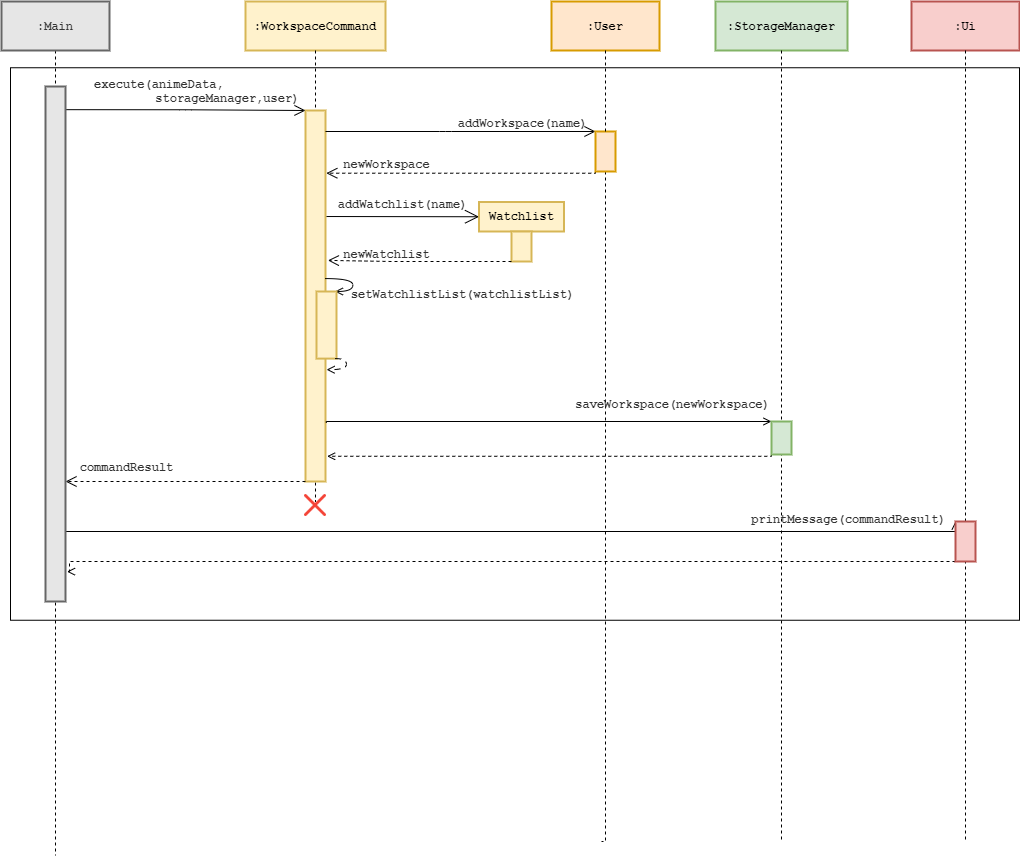
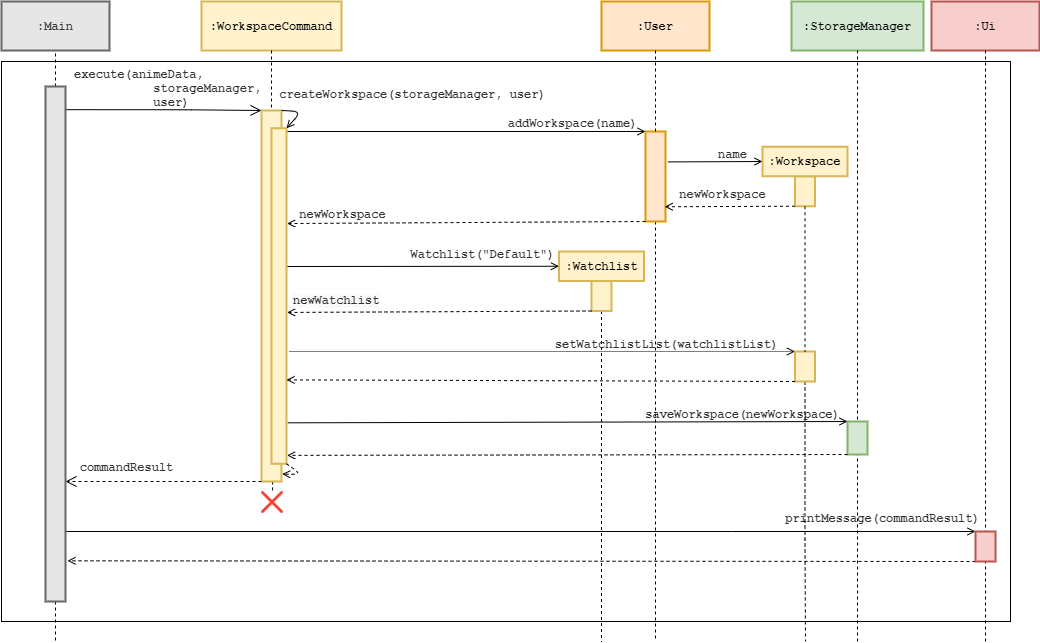
Update workspace sequences

diff --git a/src/main/java/anichan/commands/WorkspaceCommand.java b/src/main/java/anichan/commands/WorkspaceCommand.java
@@ -61,13 +61,13 @@ public class WorkspaceCommand extends Command {
 
         switch (commandOption) {
         case CREATE_OPTION:
-            return createWorkspace(user, storageManager);
+            return createWorkspace(storageManager, user);
         case SWITCH_OPTION:
             return switchWorkspace(user);
         case LIST_OPTION:
             return listWorkspace(user);
         case DELETE_OPTION:
-            return deleteWorkspace(user, storageManager);
+            return deleteWorkspace(storageManager, user);
         default:
             LOGGER.log(Level.WARNING, "Invalid workspace command provided.");
             throw new AniException(EXPECTED_PARAMETERS_MESSAGE);
@@ -82,7 +82,7 @@ public class WorkspaceCommand extends Command {
      * @return result after executing the command
      * @throws AniException when an error occurred while executing the command
      */
-    private String createWorkspace(User user, StorageManager storageManager) throws AniException {
+    private String createWorkspace(StorageManager storageManager, User user) throws AniException {
         Workspace newWorkspace = user.addWorkspace(workspaceName);
 
         Watchlist newWatchlist = new Watchlist("Default");
@@ -119,7 +119,7 @@ public class WorkspaceCommand extends Command {
      * @return result after executing the command
      * @throws AniException when an error occurred while executing the command
      */
-    private String deleteWorkspace(User user, StorageManager storageManager) throws AniException {
+    private String deleteWorkspace(StorageManager storageManager, User user) throws AniException {
         if (user.getActiveWorkspace().toString().equals(workspaceName)) {
             throw new AniException(EXCEPTION_WORKSPACE_IN_USE);
         }
